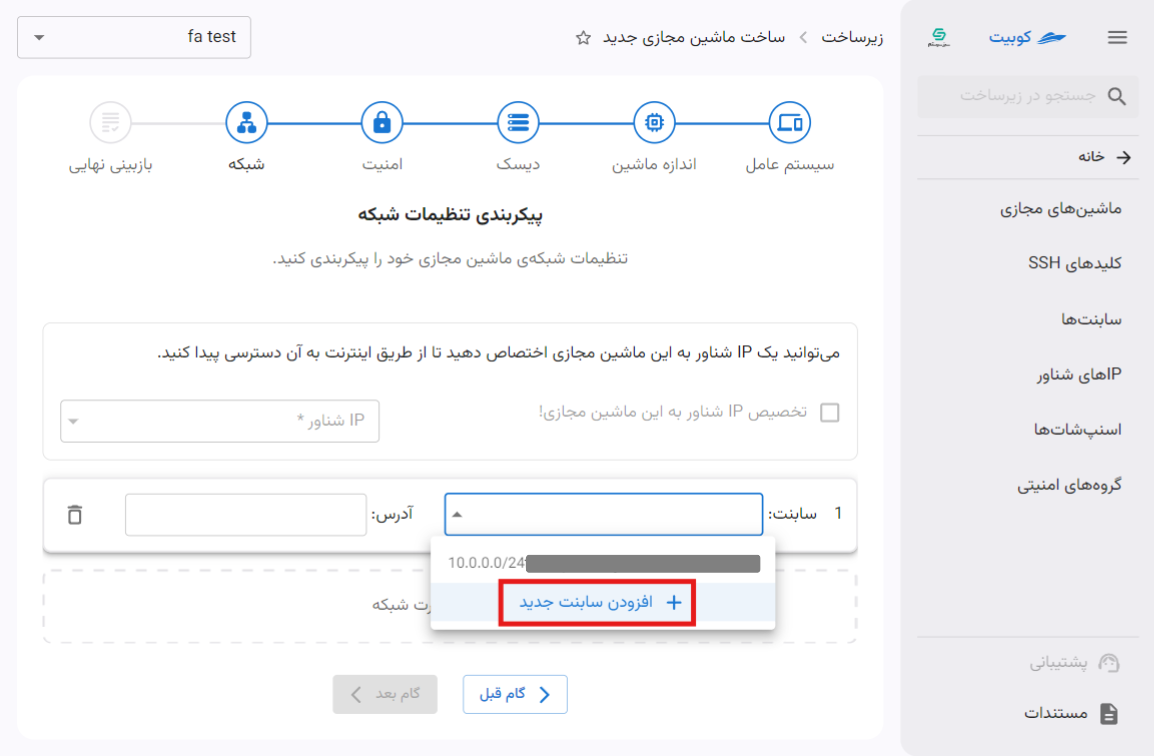
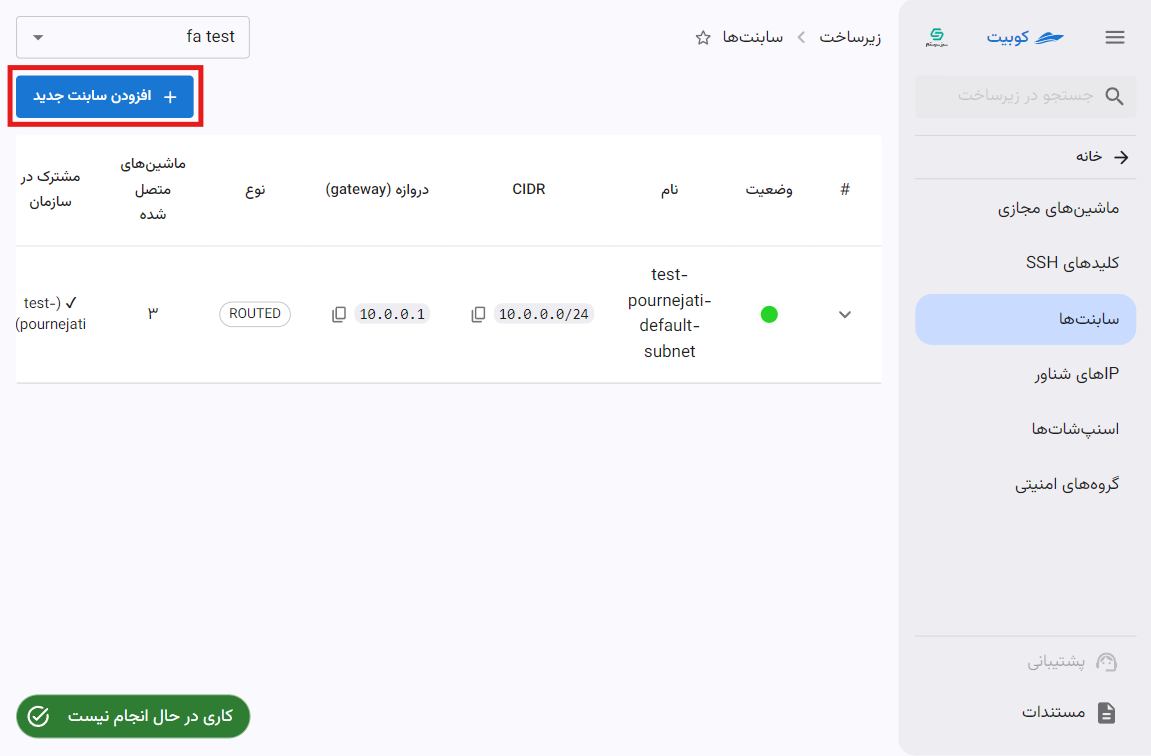
add subnet docs

diff --git a/docs/fa/iaas/subnets.md b/docs/fa/iaas/subnets.md
@@ -1,0 +1,79 @@
+# سابنتها
+
+در صفحه سابنتها لیست سابنتهای پروژه و مشترک در سازمان، به همراه امکان **افزودن سابنت جدید** و عملیاتهایی چون **ویرایش**، **اتصال به اینترنت**، **افزودن گروه امنیتی** و **حذف** وجود دارد.
+![Subnets: subnets](subnets.png)
+
+## افزودن سابنت جدید{#add-new-subnet}
+
+- برای افزودن یک سابنت، روی دکمه **افزودن سابنت جدید** کلیک کنید.
+- سپس اطلاعات خواسته شده چون **نام**، **CIDR** و **دروازه** را وارد کنید.
+- در انتها در صورت تمایل به اشتراک گذاری این سابنت در سازمان، گزینه **از این سابنت در تمام پروژهها استفاده کن** را انتخاب کرده و روی **ساخت سابنت** کلیک کنید.
+  ![Subnets: new subnet](new-subnet-btn.png)
+  ![Subnets: new subnet form](new-subnet-form.png)
+
+## مشاهده جزئیات و وضعیت
+
+برای مشاهده جزئیاتی از قبیل ماشینهای متصل، آدرسهای تخصیص داده شده به هر ماشین و امکان انجام عملیاتهایی روی آنها، روی آیکون مشخص شده در تصویر زیر، کلیک کنید:
+![Subnets: subnet details btn](subnet-details-btn.png)
+سپس به ازای سابنت انتخاب شده، لیستی از اطلاعات ذکر شده نمایش داده میشود:
+![Subnets: subnet details 1](subnet-details-1.png)
+
+### حذف کارت شبکه
+
+- برای حذف کارت شبکه تخصیص داده شده به ماشین مجازی، روی آیکون **سطل زباله** ماشین مربوطه کلیک کنید.
+- سپس در صورت اطمینان از حذف، روی دکمه **پاک کردن** در دیالوگ باز شده کلیک کنید.
+
+![Subnets: remove vm network from subnet](remove-vm-network-from-subnet.png)
+![Subnets: confirm remove vm network from subnet](confirm-remove-vm-network-from-subnet.png)
+
+### هدایت به ماشین مجازی
+
+برای هدایت مستقیم به صفحه نمای کلی ماشین مجازی متصل به سابنت، روی آیکون مشخص شده کلیک کنید:
+![Subnets: redirect to vm](redirect-to-vm.png)
+
+## عملیاتهای یک سابنت
+
+برای مشاهده عملیاتهای ممکن برای یک سابنت، روی دکمه سه نقطه در ستون **عملیات** کلیک کنید تا لیستی از عملیاتها نمایش داده شود:
+![Subnets: options btn](subnet-options-btn.png)
+![Subnets: options](subnet-options.png)
+
+### ویرایش
+
+- برای ویرایش سابنت، روی گزینه **ویرایش** کلیک کنید.
+- در دیالوگ باز شده، تنها امکان ویرایش **نام** و **وضعیت اشتراک گذاری** سابنت وجود دارد. پس از وارد کردن تغییرات موردنظر، روی گزینه **بهروزرسانی سابنت** کلیک کنید.
+  ![Subnets: edit](edit-subnet.png)
+  ![Subnets: update](update-subnet.png)
+
+### اتصال به اینترنت
+
+- برای اتصال یک سابنت به اینترنت، روی گزینه **اتصال به اینترنت** کلیک کنید.
+- سپس برای اتصال، به یک IP شناور نیاز است. در صورت وجود IP شناور میتوانید از لیست IPهای شناور تخصیص داده نشده انتخاب کنید یا یک IP شناور جدید ایجاد کنید.
+  ![Subnets: connect to internet](connect-to-internet.png)
+  ![Subnets: unassigned floating ip](unassigned-floating-ip.png)
+
+#### انتخاب از میان IP شناورهای موجود
+
+![Subnets: select floating ip](select-unassigned-floating-ip.png)
+![Subnets: connect 1](connect-to-internet-1.png)
+
+#### تخصیص IP شناور جدید
+
+![Subnets: assign floating ip btn](assign-floating-ip-btn.png)
+![Subnets: assign floating ip form](assign-floating-ip-form.png)
+![Subnets: connect 2](connect-to-internet-2.png)
+
+در هر دو شیوه، پس از کلیک روی **اتصال IP شناور**، یک کار مرتبط با این عملیات ایجاد شده و در صورت موفق بودن این کار، اتصال سابنت به اینترنت انجام میشود.
+![Subnets: assign float ip to subnet](assign-float-ip-to-subnet.png)
+
+### افزودن گروه امنیتی
+
+- برای افزودن گروه امنیتی به سابنت، روی گزینه **افزودن گروه امنیتی** کلیک کنید:
+- سپس از لیست گروههای امنیتی پروژه و مشترک در سازمان، گروه موردنظر خود را انتخاب کرده و روی **تایید** کلیک کنید:
+  ![Subnets: add sec gp](add-sec-gp-to-subnet.png)
+
+### حذف سابنت
+
+- برای حذف سابتنت، روی گزینه **پاک کردن** کلیک کنید.
+- سپس در صورت اطمینان از حذف، روی دکمه **پاک کردن** در دیالوگ باز شده کلیک کنید.
+  ![Subnets: remove](remove-subnet.png)
+  ![Subnets: confirm remove](confirm-remove-subnet.png)
